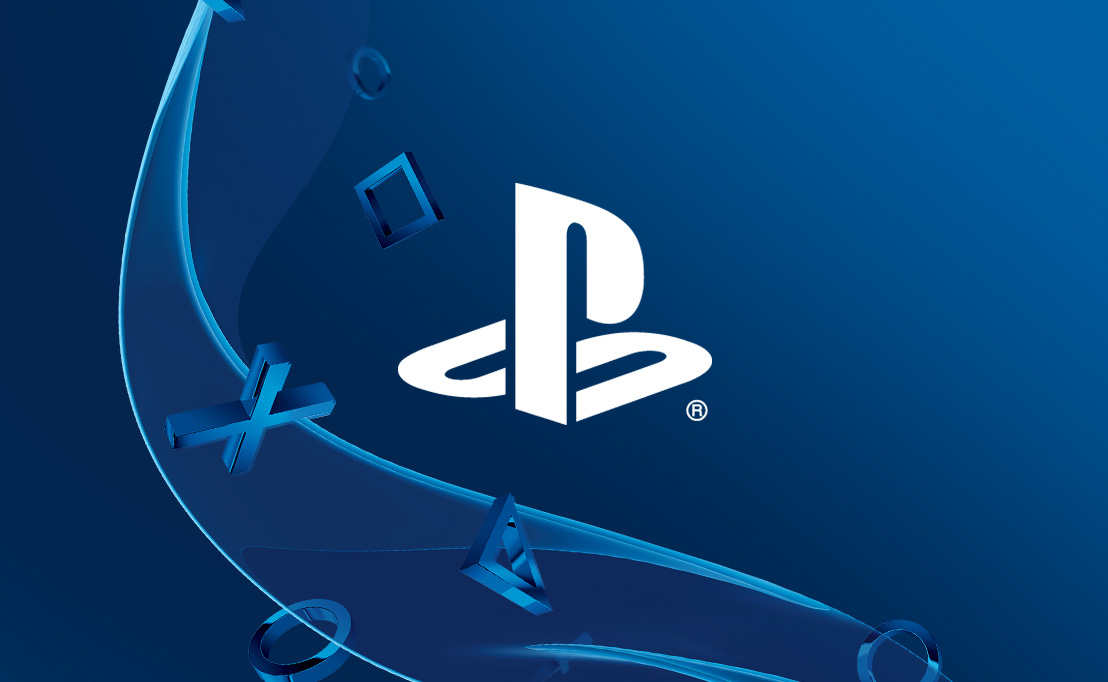
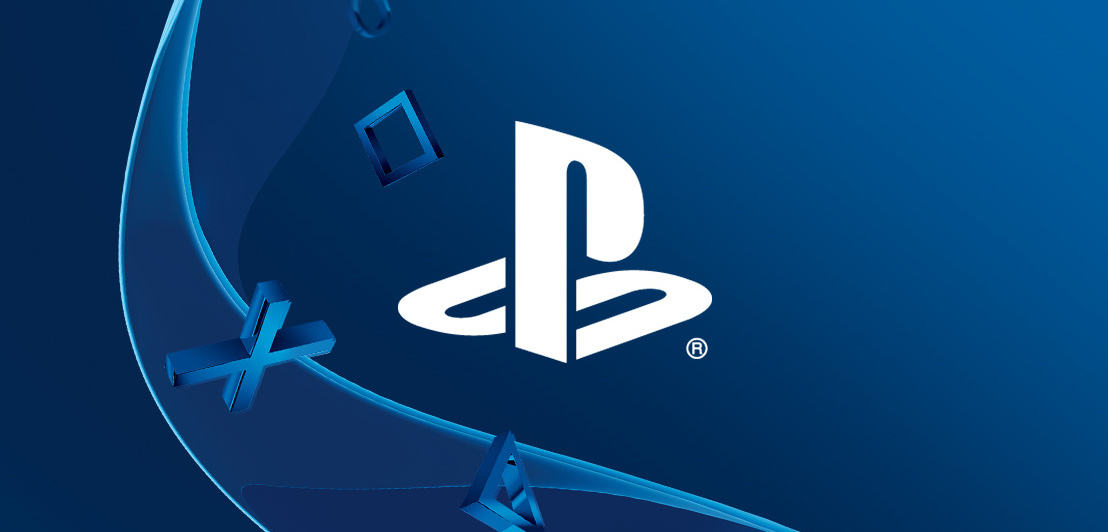
Btea

diff --git a/noticias/noticia1.html b/noticias/noticia1.html
@@ -30,46 +30,49 @@
 				</ul>
 			</nav>
 		</header>
-		<h2 id="titulos">Decenas de juegos de oferta en PS Store por el Black Friday</h2>
-		<section> <!-- Hay que poner imagen, no slide -->
-			<img class="imagen-noticias" src="../img/noticia1_banner.jpg" width="850" height="375">
+
+		<section class="conjunto-noticias-trailers">
+			<h2 id="titulos">Decenas de juegos de oferta en PS Store por el Black Friday</h2>
+			<section>
+				<img class="img-principal" src="../img/noticia1_banner.jpg">
+			</section>
+	
+			<p>
+				En PlayStation no se conforman con que PS5 acabe de llegar a las tiendas de todo el mundo,
+				sino que también se adelantan al Black Friday con un montón de ofertas en PS Store
+				y en tiendas físicas para distintos juegos de su catálogo. 
+				Una promoción que está disponible desde ya mismo y que estará activa hasta el 30 de noviembre, 
+				resultando tentador el rascarse el bolsillo con una selección de grandes títulos AAA a un precio bastante por debajo del habitual
+			</p>
+			
+			<p>
+				Incluso lanzamientos recientes como Watch Dogs Legion o Crash Bandicoot 4: It's About Time 
+				están de oferta en PS Store con motivo del Black Friday. A continuación os dejamos un listado con algunas de las ofertas más jugosas 
+				que podéis encontrar en la tienda digital de Sony.
+			</p>
+	
+			<h3 id="titulos">
+				<a href="https://store.playstation.com/es-es/view/47095840-7dcf-11ea-acb6-06293b18fe04/8f3918ec-2040-11eb-aadc-062143ad1e8d" class="a_linea" target="_blank">Todas las ofertas en la PS Store por el Black Friday</a>
+			</h3>
+	
+			<ul>
+				<li><a href="https://store.playstation.com/es-es/product/EP9000-CUSA10249_00-THELASTOFUSPART2">The Last of Us Parte II</a> 39,89€ / Precio original: 69,99 €</li>
+				<li><a href="https://store.playstation.com/es-es/product/EP0006-CUSA19623_00-FIFAFOOTBALL2021">FIFA 21 Beckham Edition</a>: 38,49 € / Precio original: 69,99 €</li>
+				<li><a href="https://store.playstation.com/es-es/product/EP0082-CUSA14030_00-BASEGAME0001SIEE">Marvel’s Avengers</a>: 34,99 € / Precio original: 69,99 €</li>
+				<li><a href="https://store.playstation.com/es-es/product/EP1001-CUSA20171_00-NBA2K21000000000">NBA 2K21</a>: 34,99 € / Precio original: 69,99 €</li>	
+				<li><a href="https://store.playstation.com/es-es/product/EP9000-CUSA13323_00-GHOSTSHIP0000000">Ghost of Tsushima</a>: 49,69 € / Precio original: 69,99 €</li>
+				<li><a href="https://store.playstation.com/es-es/product/EP0001-PPSA01488_00-ORWFULLGAME00000">Watch Dogs: Legion</a>: 45,49 € / Precio original: 69,99 €</li>
+				<li><a href="https://store.playstation.com/es-es/product/EP0002-CUSA23470_00-CB4STANDARD00001">Crash Bandicoot 4 It’s About Time</a> 45,49€ / Precio original 69,99€</li>
+				<li><a href="https://store.playstation.com/es-es/product/EP0082-CUSA07187_00-FFVIIREMAKE00000">Final Fantasy VII Remake</a>: 46,19€ / Precio original 69,99€</li>
+				<li><a href="https://store.playstation.com/es-es/product/EP0102-CUSA14123_00-BH3B000000000001">Resident Evil 3</a>: 19,79 € / Precio original: 59,99 €</li>
+				<li><a href="https://store.playstation.com/es-es/product/EP9000-CUSA07411_00-0000000GODOFWARN">God of War</a>: 9,99 € / Precio original: 19,99 €</li>
+				<li><a href="https://store.playstation.com/es-es/product/EP9000-CUSA00556_00-THELASTOFUS00000">The Last of Us Remasterizado</a>: 9,99 € / Precio original: 19,99 €</li>
+				<li><a href="https://store.playstation.com/es-es/product/EP9000-CUSA00918_00-UNCHARTED4000000">Uncharted 4: El desenlace del ladrón</a>: 9,99 € / Precio original: 19,99 €</li>
+				<li><a href="https://store.playstation.com/es-es/product/EP0006-CUSA15089_00-STARWARSQUADRONS">Star Wars: Squadrons</a>: 24,79 € / Precio original: 39,99 €</li>	
+			</ul>
+			
+			<div class="linea-separacion"></div>
 		</section>
-
-		<p>
-			En PlayStation no se conforman con que PS5 acabe de llegar a las tiendas de todo el mundo,
-			sino que también se adelantan al Black Friday con un montón de ofertas en PS Store
-			y en tiendas físicas para distintos juegos de su catálogo. 
-			Una promoción que está disponible desde ya mismo y que estará activa hasta el 30 de noviembre, 
-			resultando tentador el rascarse el bolsillo con una selección de grandes títulos AAA a un precio bastante por debajo del habitual
-		</p>
-		
-		<p>
-			Incluso lanzamientos recientes como Watch Dogs Legion o Crash Bandicoot 4: It's About Time 
-			están de oferta en PS Store con motivo del Black Friday. A continuación os dejamos un listado con algunas de las ofertas más jugosas 
-			que podéis encontrar en la tienda digital de Sony.
-		</p>
-
-		<h3 id="titulos">
-			<a href="https://store.playstation.com/es-es/view/47095840-7dcf-11ea-acb6-06293b18fe04/8f3918ec-2040-11eb-aadc-062143ad1e8d" class="a_linea" target="_blank">Todas las ofertas en la PS Store por el Black Friday</a>
-		</h3>
-
-		<ul>
-			<li><a href="https://store.playstation.com/es-es/product/EP9000-CUSA10249_00-THELASTOFUSPART2">The Last of Us Parte II</a> 39,89€ / Precio original: 69,99 €</li>
-			<li><a href="https://store.playstation.com/es-es/product/EP0006-CUSA19623_00-FIFAFOOTBALL2021">FIFA 21 Beckham Edition</a>: 38,49 € / Precio original: 69,99 €</li>
-			<li><a href="https://store.playstation.com/es-es/product/EP0082-CUSA14030_00-BASEGAME0001SIEE">Marvel’s Avengers</a>: 34,99 € / Precio original: 69,99 €</li>
-			<li><a href="https://store.playstation.com/es-es/product/EP1001-CUSA20171_00-NBA2K21000000000">NBA 2K21</a>: 34,99 € / Precio original: 69,99 €</li>	
-			<li><a href="https://store.playstation.com/es-es/product/EP9000-CUSA13323_00-GHOSTSHIP0000000">Ghost of Tsushima</a>: 49,69 € / Precio original: 69,99 €</li>
-			<li><a href="https://store.playstation.com/es-es/product/EP0001-PPSA01488_00-ORWFULLGAME00000">Watch Dogs: Legion</a>: 45,49 € / Precio original: 69,99 €</li>
-			<li><a href="https://store.playstation.com/es-es/product/EP0002-CUSA23470_00-CB4STANDARD00001">Crash Bandicoot 4 It’s About Time</a> 45,49€ / Precio original 69,99€</li>
-			<li><a href="https://store.playstation.com/es-es/product/EP0082-CUSA07187_00-FFVIIREMAKE00000">Final Fantasy VII Remake</a>: 46,19€ / Precio original 69,99€</li>
-			<li><a href="https://store.playstation.com/es-es/product/EP0102-CUSA14123_00-BH3B000000000001">Resident Evil 3</a>: 19,79 € / Precio original: 59,99 €</li>
-			<li><a href="https://store.playstation.com/es-es/product/EP9000-CUSA07411_00-0000000GODOFWARN">God of War</a>: 9,99 € / Precio original: 19,99 €</li>
-			<li><a href="https://store.playstation.com/es-es/product/EP9000-CUSA00556_00-THELASTOFUS00000">The Last of Us Remasterizado</a>: 9,99 € / Precio original: 19,99 €</li>
-			<li><a href="https://store.playstation.com/es-es/product/EP9000-CUSA00918_00-UNCHARTED4000000">Uncharted 4: El desenlace del ladrón</a>: 9,99 € / Precio original: 19,99 €</li>
-			<li><a href="https://store.playstation.com/es-es/product/EP0006-CUSA15089_00-STARWARSQUADRONS">Star Wars: Squadrons</a>: 24,79 € / Precio original: 39,99 €</li>	
-		</ul>
-		
-		<div class="linea-separacion"></div>
 
 		<footer>
 			<p id="url-footer">

diff --git a/noticias/noticia2.html b/noticias/noticia2.html
@@ -30,39 +30,46 @@
 				</ul>
 			</nav>
 		</header>
-		<h2 id="titulos">Cyberpunk 2077 actualiza sus requisitos en PC con nuevas configuraciones, ajustándose a todos los públicos</h2>
-		<section> <!-- Hay que poner imagen, no slide -->
-			<img class="imagen-noticias" src="../img/noticia2_banner.jpg" width="850" height="375">
+
+		<section class="conjunto-noticias-trailers">
+			<h2 id="titulos">Cyberpunk 2077 actualiza sus requisitos en PC con nuevas configuraciones, ajustándose a todos los públicos</h2>
+			
+			<section> <!-- Hay que poner imagen, no slide -->
+				<img class="img-principal" src="../img/noticia2_banner.jpg" width="850" height="375">
+			</section>
+	
+			<p>
+				CD Projekt ha vuelto a usar el cartel amarillo para un anuncio relacionado con Cyberpunk 2077. 
+				Pero, tranquilos, no es un nuevo retraso. El estudio polaco ha actualizado sus requisitos mínimos y recomendados para PC. 
+				Además, ha incluido nuevas configuraciones: alto, ultra, mínimo (con trazado de rayos y 1080p), alto (con trazado de rayos y 2K) 
+				y ultra (con trazado de rayos y 4K) para adaptar la experiencia del juego a todos los sistemas y gustos.
+			</p>
+
+			<p>
+				Tras varios años de desarrollo, el sandbox de CD Projekt promete ser una experiencia pulcra, ya que el estudio se caracteriza 
+				por cuidar hasta el más mínimo detalle, como personalizar la dentadura o el tamaño de las uñas del protagonista. Por eso, había 
+				cierto miedo en algunos usuarios en que se les fuera las manos con los requisitos. Pero estos cambios respetan y son muy parecidos a los publicados 
+				con anterioridad, y no parecen ofrecer nada especialmente abusivo para disfrutar de la experiencia Cyberpunk 2077. Podéis ver la tabla a continuación.
+			</p>
+			
+			<div class="twitter">
+				<iframe scrolling="no" frameborder="0" allowtransparency="true" allowfullscreen="true" title="Twitter Tweet" src="https://platform.twitter.com/embed/index.html?dnt=false&amp;embedId=twitter-widget-0&amp;frame=false&amp;hideCard=false&amp;hideThread=false&amp;id=1329815591151144960&amp;lang=es&amp;origin=https%3A%2F%2Fwww.3djuegos.com%2Fnoticias-ver%2F209513%2Fcyberpunk-2077-actualiza-sus-requisitos-en-pc-con-nuevas%2F&amp;siteScreenName=3djuegos&amp;theme=light&amp;widgetsVersion=ed20a2b%3A1601588405575&amp;width=550px" data-tweet-id="1329815591151144960" data-loaded="true"></iframe>
+			</div>
+
+			<p>
+				Con cierta ironía, destaca la disculpa que han publicado a posteriori con el fondo amarillo, ya que ha sido carne de memes en las redes sociales. 
+				Como veis, se trata de unas configuraciones bastante ajustadas, y tan solo los 16 GB de RAM en las configuraciones más elevadas puedan ser un quebradero 
+				de cabeza para algunos usuarios; pero siendo realistas, es una necesidad lógica para una propuesta de estas características.
+			</p>
+
+			<p>
+				Si nada ocurre, Cyberpunk 2077 llegará el 10 de diciembre a PC, además de a PS4, Xbox One y Google Stadia. Recientemente se ha emitido el último 
+				Night City Wire sobre el juego, centrado en el papel del personaje interpretado por Keanu Reeves. También podéis ver nuestras impresiones de jugar durante 4 horas.
+			</p>
+	
+			<div class="linea-separacion"></div>
 		</section>
-
-		<p>
-			CD Projekt ha vuelto a usar el cartel amarillo para un anuncio relacionado con Cyberpunk 2077. 
-			Pero, tranquilos, no es un nuevo retraso. El estudio polaco ha actualizado sus requisitos mínimos y recomendados para PC. 
-			Además, ha incluido nuevas configuraciones: alto, ultra, mínimo (con trazado de rayos y 1080p), alto (con trazado de rayos y 2K) 
-			y ultra (con trazado de rayos y 4K) para adaptar la experiencia del juego a todos los sistemas y gustos.
-		</p>
-		<p>
-			Tras varios años de desarrollo, el sandbox de CD Projekt promete ser una experiencia pulcra, ya que el estudio se caracteriza 
-			por cuidar hasta el más mínimo detalle, como personalizar la dentadura o el tamaño de las uñas del protagonista. Por eso, había 
-			cierto miedo en algunos usuarios en que se les fuera las manos con los requisitos. Pero estos cambios respetan y son muy parecidos a los publicados 
-			con anterioridad, y no parecen ofrecer nada especialmente abusivo para disfrutar de la experiencia Cyberpunk 2077. Podéis ver la tabla a continuación.
-		</p>
 		
-		<div class="twitter">
-			<iframe scrolling="no" frameborder="0" allowtransparency="true" allowfullscreen="true" title="Twitter Tweet" src="https://platform.twitter.com/embed/index.html?dnt=false&amp;embedId=twitter-widget-0&amp;frame=false&amp;hideCard=false&amp;hideThread=false&amp;id=1329815591151144960&amp;lang=es&amp;origin=https%3A%2F%2Fwww.3djuegos.com%2Fnoticias-ver%2F209513%2Fcyberpunk-2077-actualiza-sus-requisitos-en-pc-con-nuevas%2F&amp;siteScreenName=3djuegos&amp;theme=light&amp;widgetsVersion=ed20a2b%3A1601588405575&amp;width=550px" data-tweet-id="1329815591151144960" data-loaded="true"></iframe>
-		</div>
-		<p>
-			Con cierta ironía, destaca la disculpa que han publicado a posteriori con el fondo amarillo, ya que ha sido carne de memes en las redes sociales. 
-			Como veis, se trata de unas configuraciones bastante ajustadas, y tan solo los 16 GB de RAM en las configuraciones más elevadas puedan ser un quebradero 
-			de cabeza para algunos usuarios; pero siendo realistas, es una necesidad lógica para una propuesta de estas características.
-		</p>
-		<p>
-			Si nada ocurre, Cyberpunk 2077 llegará el 10 de diciembre a PC, además de a PS4, Xbox One y Google Stadia. Recientemente se ha emitido el último 
-			Night City Wire sobre el juego, centrado en el papel del personaje interpretado por Keanu Reeves. También podéis ver nuestras impresiones de jugar durante 4 horas.
-		</p>
-		<p class="s16 fftext c2 lh27 img100 a_n db">
-
-		<div class="linea-separacion"></div>
 
 		<footer>
 			<p id="url-footer">

diff --git a/noticias/noticia3.html b/noticias/noticia3.html
@@ -31,34 +31,37 @@
 				</ul>
 			</nav>
 		</header>
-		<h2 id="titulos">¿Saldrán los juegos de Bethesda en PS5?</h2>
-		
-		<section> <!-- Hay que poner imagen, no slide -->
-			<img class="imagen-noticias" src="../img/noticia3_banner.jpg" width="850" height="375">
-		</section>
 
-		<p>
-			Es la pregunta del millón. ¿Qué va a pasar con los juegos de Bethesda en PS5? La compra de la empresa por parte de Xbox 
-			lleva semanas planteando una duda que todavía no tiene respuesta. Se ha especulado mucho al respecto y ninguna de las partes implicadas ha hablado claro. 
-			Hace poco desde la empresa de Redmond manifestaron que sus planes son que juegos como The Elder Scrolls, Fallout o Doom lleguen 'primero y mejor' a la familia Xbox.
-		</p>
-		<p>
-			Ahora, le han trasladado la pregunta al otro bando. Jim Ryan, CEO de PlayStation, ha concedido una entrevista con el portal TASS, 
-			en la que ha hablado de muchos aspectos del futuro de PS5, advirtiendo de la posibilidad de un servicio similar a Game Pass. 
-			También le han cuestionado acerca de qué piensa que va a ocurrir con los juegos de Bethesda en PS5. Y ha sido bastante honesto, 
-			asegurando que no pueden hacer demasiado desde la empresa nipona.
-		</p>
-		<p>
-			"Es una decisión que está fuera de nuestras manos; esperaremos y veremos qué pasa". Es la respuesta de Ryan al citado medio, 
-			dejando claro que no sabe cómo procederá Bethesda y Xbox a la hora de que salgan a la venta algunos de los títulos más potentes 
-			de sagas como las mencionadas con anterioridad. El directivo, o no lo sabe, o no se ha querido pronunciar al respecto, por lo que tendremos que esperar para saber qué.
-		</p>
-		<p>
-			Exclusividad o no, el tiempo despejará la incógnita que preocupa a buena parte de los poseedores o futuros compradores de PS5. Hasta que llegue el momento, 
-			echad un vistazo a nuestro reportaje sobre los 10 juegos mejor valorados de la historia de Bethesda.
-		</p>
-		
-		<div class="linea-separacion"></div>
+		<section class="conjunto-noticias-trailers">
+			<h2 id="titulos">¿Saldrán los juegos de Bethesda en PS5?</h2>
+			
+			<section> <!-- Hay que poner imagen, no slide -->
+				<img class="img-principal" src="../img/noticia3_banner.jpg" width="850" height="375">
+			</section>
+
+			<p>
+				Es la pregunta del millón. ¿Qué va a pasar con los juegos de Bethesda en PS5? La compra de la empresa por parte de Xbox 
+				lleva semanas planteando una duda que todavía no tiene respuesta. Se ha especulado mucho al respecto y ninguna de las partes implicadas ha hablado claro. 
+				Hace poco desde la empresa de Redmond manifestaron que sus planes son que juegos como The Elder Scrolls, Fallout o Doom lleguen 'primero y mejor' a la familia Xbox.
+			</p>
+			<p>
+				Ahora, le han trasladado la pregunta al otro bando. Jim Ryan, CEO de PlayStation, ha concedido una entrevista con el portal TASS, 
+				en la que ha hablado de muchos aspectos del futuro de PS5, advirtiendo de la posibilidad de un servicio similar a Game Pass. 
+				También le han cuestionado acerca de qué piensa que va a ocurrir con los juegos de Bethesda en PS5. Y ha sido bastante honesto, 
+				asegurando que no pueden hacer demasiado desde la empresa nipona.
+			</p>
+			<p>
+				"Es una decisión que está fuera de nuestras manos; esperaremos y veremos qué pasa". Es la respuesta de Ryan al citado medio, 
+				dejando claro que no sabe cómo procederá Bethesda y Xbox a la hora de que salgan a la venta algunos de los títulos más potentes 
+				de sagas como las mencionadas con anterioridad. El directivo, o no lo sabe, o no se ha querido pronunciar al respecto, por lo que tendremos que esperar para saber qué.
+			</p>
+			<p>
+				Exclusividad o no, el tiempo despejará la incógnita que preocupa a buena parte de los poseedores o futuros compradores de PS5. Hasta que llegue el momento, 
+				echad un vistazo a nuestro reportaje sobre los 10 juegos mejor valorados de la historia de Bethesda.
+			</p>
+			
+			<div class="linea-separacion"></div>
+		</section>
 
 		<footer>
 			<p id="url-footer">

diff --git a/css/estilo.css b/css/estilo.css
@@ -59,16 +59,13 @@ header{
 	color: #990000;
 }
 
-#banner{
-	
+.img-principal{
 	margin-top: 10px;
 	width: 100%;
-	height: 250px;
+	height: auto;
+	max-height: 10%;
 }
-.imagen-noticias {
-	display:block;
-	margin:auto;
-}
+
 
 #titulos{
 	text-align: center;
@@ -119,6 +116,11 @@ footer{
 
 #url-footer{
 	float: left;
+	margin-left: 5px;
+}
+.conjunto-noticias-trailers{
+	padding-left: 10px;
+	padding-right: 10px;
 }
 
 /*-------------------Twitter-------------------- */
@@ -127,7 +129,6 @@ footer{
 	max-width: 550px; 
 	width: 100%; 
 	margin-top: 10px; 
-	margin-bottom: 10px;
 	margin: auto;
 }
 .twitter iframe {
@@ -144,10 +145,6 @@ footer{
 	margin-bottom: 10px;
 	border-bottom:dotted 1px grey;
 	width:100%;
-}
-.conjunto-noticias-trailers{
-	padding-left: 10px;
-	padding-right: 10px;
 }
 .notica-trailer {
 	margin-top: 15px;
@@ -260,7 +257,7 @@ fieldset{
 	}
 	#banner{
 		width: 98%;
-		height: 250px;
+		height: auto;
 		margin-left: auto;
 		margin-right: auto;
 		display: block;
@@ -268,6 +265,10 @@ fieldset{
 	}
 	.menu {
 		margin-right: 5px;
+	}
+	.noticia-trailer .noticia-trailer-img iframe{
+		width: 375px;
+		height: 225px;
 	}
 }
 @media screen and (max-width:600px) {
@@ -305,5 +306,12 @@ fieldset{
 	}
 	footer .menu {
 		display:none;
+	}
+	.noticia-trailer .noticia-trailer-img iframe{
+		width: 275px;
+		height: 150px;
+	}
+	#banner{
+		height: auto;
 	}
 }

diff --git a/contacto.html b/contacto.html
@@ -32,7 +32,7 @@
 		</header>
 
 		<section >
-			<img id="banner" src="img/banner.jpg">
+			<img class="img-principal" src="img/banner.jpg">
 		</section>
 
 		<h2 id="titulos">Trabaja con nosotros</h2>

diff --git a/index.html b/index.html
@@ -33,7 +33,7 @@
 		</header>
 
 		<section >
-			<img id="banner" src="img/banner.jpg">
+			<img class="img-principal" src="img/banner.jpg">
 		</section>
 
 		<h2 id="titulos">Última hora</h2>
